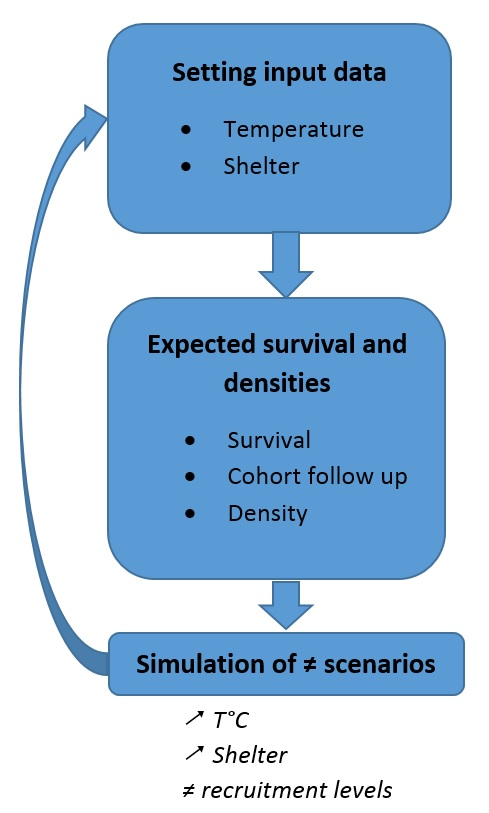
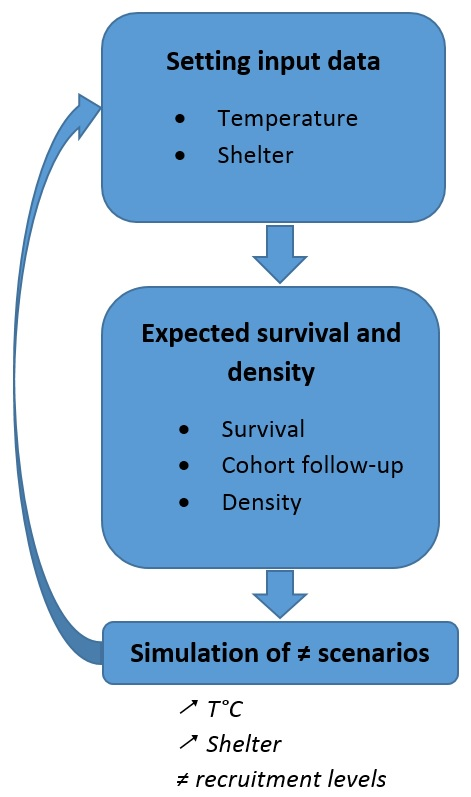
English corrections

diff --git a/app/md/a_propos_4_en.md b/app/md/a_propos_4_en.md
@@ -6,13 +6,13 @@ output: html_document
 
 
 ### **Acknowledgement**
-<font size="4">The development of the model resulted of a historical collaboration between EDF R&D, INRAE and the French Office of the Biodiversity. This collaboration provided funding for long-term monitoring as well as reliable statistical analysis of the dataset. Expertise from numerous people who contributed to electrofishing and habitat measurements were also mobilized.</font>
+<font size="4">The model was developed by a collaboration between EDF R&D, INRAE and the French Office of the Biodiversity, funding the long-term monitoring and reliable statistical analysis of the dataset. Numerous people contributed their expertise to electrofishing and habitat measurement.</font>
 
 ### **License**
 <font size="4">**DYPOP** is a free software distributed under the license [CeCILL] (http://cecill.info/licences/Licence_CeCILL_V2.1-en.html).</font>
 
 ### **Software version**
-<font size="4">Version 0.2 (2020 january)</font>
+<font size="4">Version 0.3 (2020 March)</font>
 
 ### **Open source software**
 <font size="4">DYPOP software sources are free. They can be downloaded [<font style = "color: # 005BBB"> here </font>] (https://github.com/fzao/DYPOP)</font>

diff --git a/app/md/a_propos_3bis_en.md b/app/md/a_propos_3bis_en.md
@@ -5,5 +5,4 @@ output: html_document
 ---
 
 
-<font size="4">Reaches were sampled by wading, using two-pass removal electrofishing sampling, meeting European Committee for Standardization guidelines (CEN, 2003). The observed **trout densities were estimated with the Carle & Strub** (1978) method. They are **expressed in number of individuals per 100 m^2** of watercourse. Length-frequency histograms distinguished three development stages: 0+ (young-of-the-year), 1+ (between 1 and 2 years old), and adult (all fish older than 2 years). The **distribution of the 428 observed densities for each development stage** covers a wide range.</font>
-
+<font size="4">Reaches were sampled by wading, with two-pass removal electrofishing sampling, meeting European Committee for Standardization guidelines (CEN, 2003). **Trout densities were estimated with the Carle & Strub** (1978) method and **expressed as number of individuals per 100 m^2** of watercourse. Length-frequency histograms distinguished three development stages: 0+ (young-of-the-year), 1+ (between 1 and 2 years old), and adult (all fish older than 2 years). The **distribution of the 428 observed densities for each development stage** covers a wide range.</font>

diff --git a/app/md/visu_text_1_en.md b/app/md/visu_text_1_en.md
@@ -4,7 +4,6 @@ author: "Victor Bret & Fabrice Zaoui"
 output: html_document
 ---
 
-> **The developed Bayesian model explained the wide variations in survival between studied river reaches by the environmental conditions. Three physical descriptors were particularly highlighted.**
-> **These three input data are to be indicated in the box on the left to obtain the results of the model on a given station: two descriptors of the thermal regime and the shelter availability.**
+> **The Bayesian model explains the wide variation in survival between river reaches in terms of environmental conditions. Three physical descriptors are particularly highlighted and should be indicated in the box on the left to obtain the results of the model for a given station: two descriptors of thermal regime, and shelter availability.**
 
-> **The definition and the calculation method of each of these three input data are accessible by clicking on their title in blue letters in the box on the left.**
+> **The definition and the calculation method for each of these three input data are accessible by clicking on their title in blue letters in the box on the left.**

diff --git a/app/md/survie_1_en.md b/app/md/survie_1_en.md
@@ -4,6 +4,6 @@ author: "Victor Bret & Fabrice Zaoui"
 output: html_document
 ---
 
-This page proposes to predict the **annual apparent survival rate** (between two samples) of the young of the year (tab 0+), 1-year-old trout (tab 1+) and adult trout (tab> 1 +).
+This page enables prediction of **annual apparent survival** (between two samples) of the young of the year (tab 0+), 1-year-old trout (tab 1+) and adult trout (tab ≥ 1 +).
 
-This estimate is calculated from the physical parameters of the station (input data in the box on the left). It is represented in the form of a curve plotted as a function of the densities (number of individuals / 100 m<sup>2</sup>) of the development stage considered (x-axis).
+The estimate is calculated from the physical parameters of the station (input data in the box on the left). It is shown as a curve plotted according to density (number of individuals per 100 m<sup>2</sup>) of the development stage in question (x-axis).

diff --git a/app/md/a_propos_1_en.md b/app/md/a_propos_1_en.md
@@ -4,10 +4,8 @@ author: "Victor Bret & Fabrice Zaoui"
 output: html_document
 ---
 
-### **Details on the model dataset**
+### **Details of the model dataset**
 
-<font size="4">The development of the trout population dynamics model  was based on **428 fish samplings, carried out on 40 sections of French rivers** including 19 in bypassed sections of hydroelectric dam. Details of these sampling reaches are given below.</font>
+<font size="4">The trout population dynamics model is based on **428 fish samplings, carried out on 40 sections of French rivers**, including 19 in hydroelectric dam bypass sections. Details of these sampling reaches are given below.</font>
 
 <font size="4">Between 4 and 20 surveys were conducted per reach in summer or early fall between 1990 and 2013. The location of the 40 reaches is presented opposite.</font>
-
-

diff --git a/app/md/survie_2_en.md b/app/md/survie_2_en.md
@@ -10,4 +10,4 @@ The results of the Bayesian model give a median prediction and the uncertainty e
 - 50% of the survival rates predicted by the model are contained in the dark gray envelope.
 - 95% of the survival rates predicted by the model are contained in the light gray envelope.
 
-The annual apparent survival values can be greater than 100%, since they incorporate possible departures/arrivals in the river reach, especially when the densities are initially very low.
+The annual apparent survival values can be greater than 100%, since they incorporate possible departures/arrivals in the river reach, especially when density is initially very low.

diff --git a/app/md/a_propos_3_en.md b/app/md/a_propos_3_en.md
@@ -5,5 +5,4 @@ output: html_document
 ---
 
 
-<font size="4">The detailed characteristics of studied reaches is available <a href="DetailsTrcs_en.xlsx" download><font style="color: #005BBB">here</font></a>.</font>
-
+<font size="4">The detailed characteristics of the reaches are available <a href="DetailsTrcs_en.xlsx" download><font style="color: #005BBB">here</font></a>.</font>

diff --git a/app/md/a_propos_2_en.md b/app/md/a_propos_2_en.md
@@ -6,5 +6,4 @@ output: html_document
 
 
 
-<font size="4">The 40 studied reaches covered a wide **range of physical, hydraulic and thermal context**.</font>
-
+<font size="4">The 40 reaches cover a wide **range of physical, hydraulic and thermal contexts**.</font>
